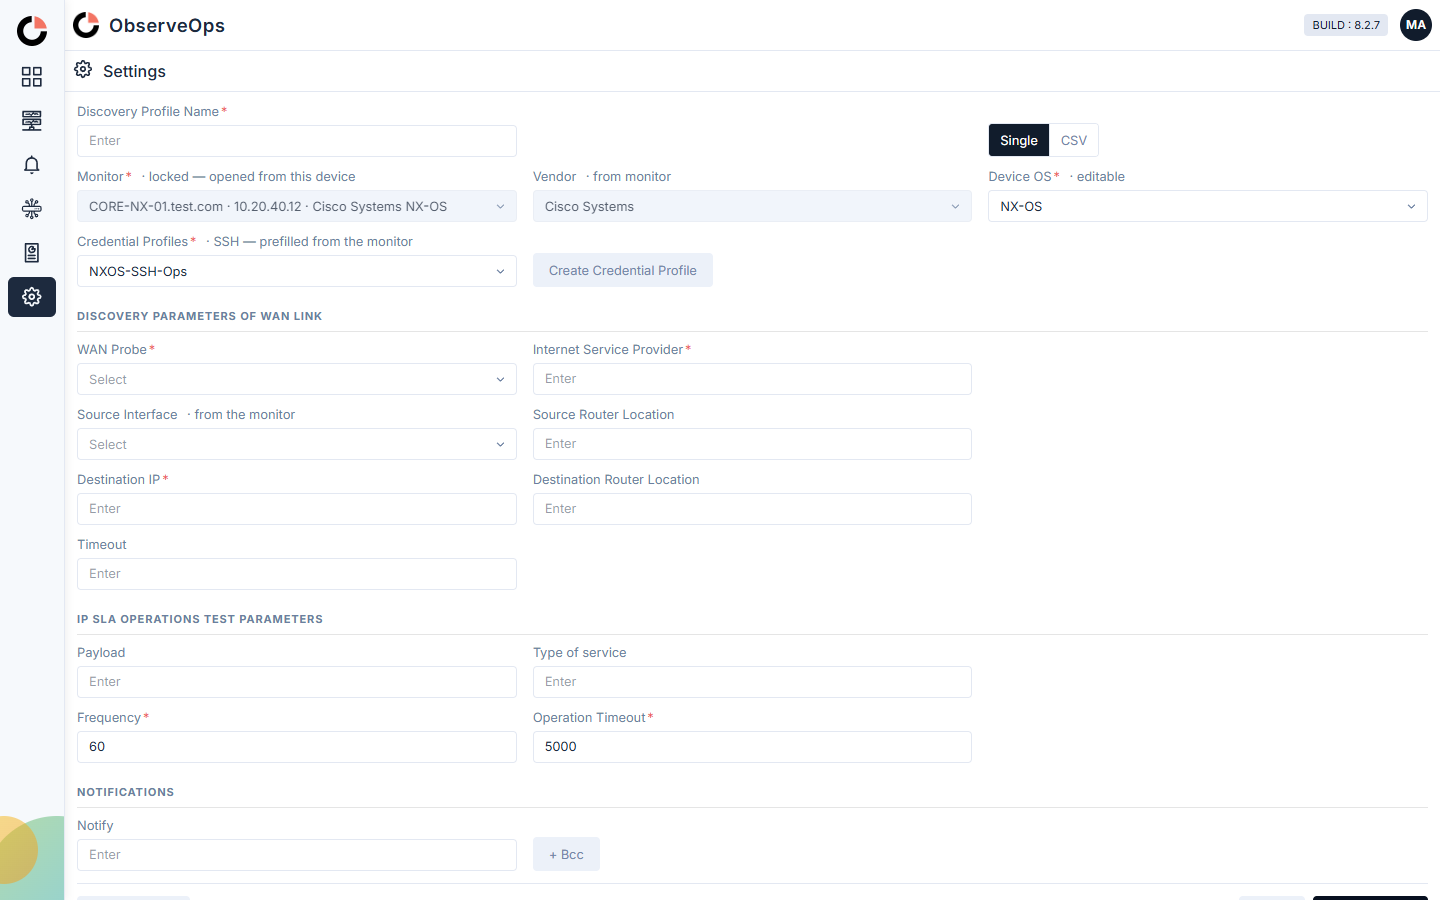
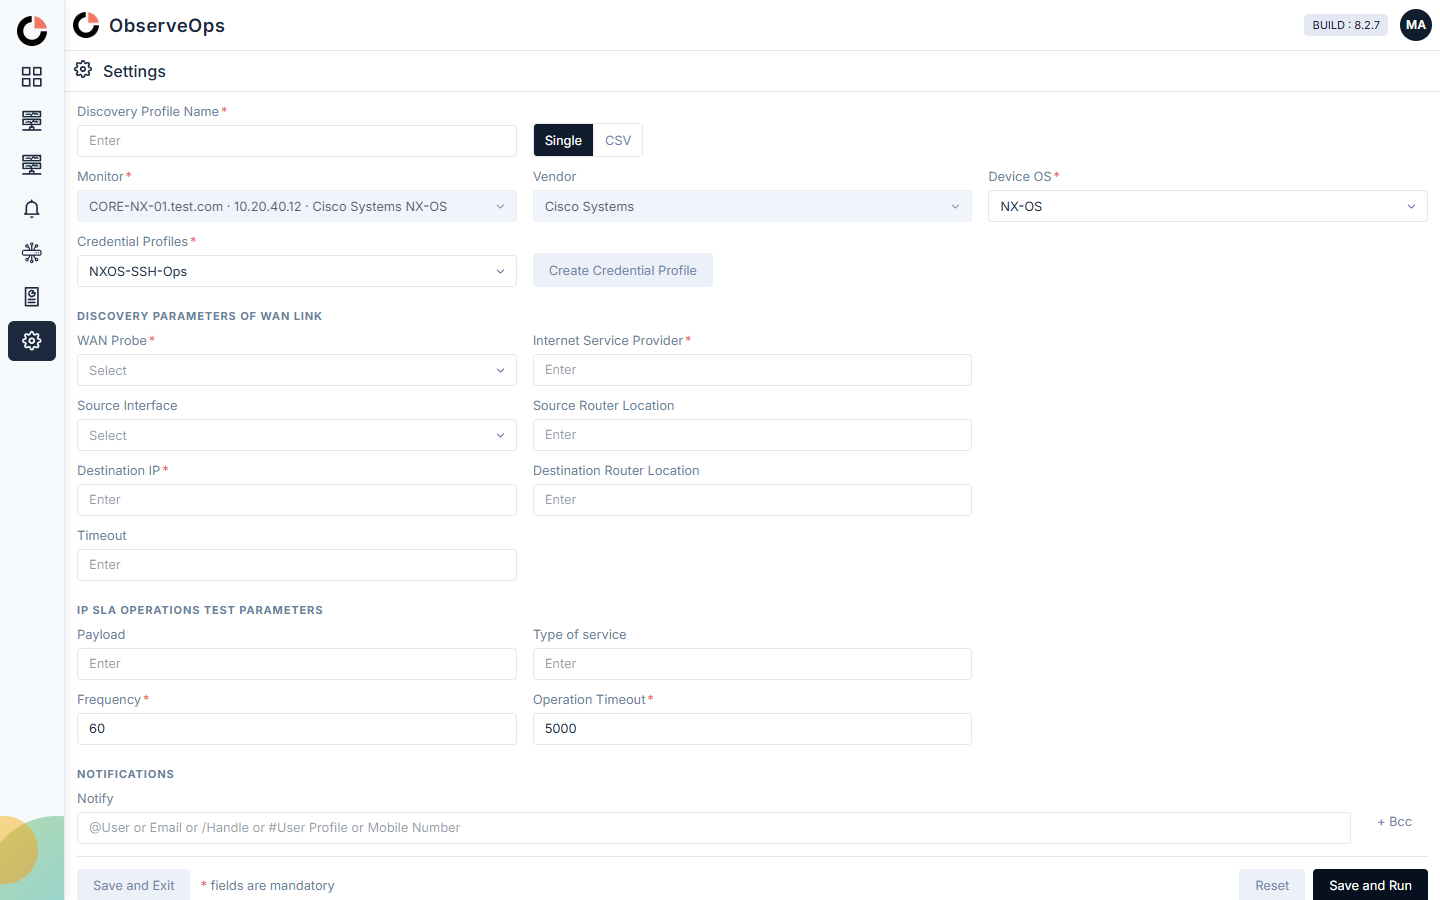
fix(wan-link-discovery): align the settings form with the shipped product
Six changes taken from the product screens, each verified in a real browser
rather than only in jsdom:

- the probe dropdowns drop their "(no monitor template yet)" caveat
- the WAN Link screen no longer offers Add WAN Link. The discovery route is
  untouched and still covered: section H of the probe navigates it directly
  now that nothing clicks it
- the field labels lose their "from monitor" style hints
- the sub-category headings lose the rule beneath them
- the Single/CSV toggle moves to column 2, beside Discovery Profile Name,
  where the shipped Create Discovery Profile puts its own type toggle
- Notifications matches the product: Notify at full width carrying the
  product's own placeholder, "+ Bcc" parked at the right end, revealing a
  labelled Bcc row with a red remove control

"+ Bcc" is obs-button variant="transparent", not obs-link. link.json is a
navigation control whose decision flow opens with "Performs an action? ->
Button, not a link", and text-link's dontUse is literally "for actions".
Built on obs-link first, a single click cleared the hash, remounted the
Overview and destroyed the half-filled form -- while 38 jsdom tests passed,
because jsdom does not navigate. Probe section E0 now pins that it cannot
come back.

679 tests across 42 files, probe 85/85, colour guard clean.

diff --git a/src/wan-link-discovery/createForm.js b/src/wan-link-discovery/createForm.js
@@ -36,13 +36,13 @@ const selectField = (id, label, { required = false, hint = '' } = {}) => `
   </div>
 `
 
-const inputField = (id, label, { required = false, hint = '', value = '' } = {}) => `
+const inputField = (id, label, { required = false, hint = '', value = '', placeholder = 'Enter' } = {}) => `
   <div class="wld-field" id="${id}-field">
     <label class="wld-field__label" for="${id}">
       ${label}${required ? '<span class="wld-field__req">*</span>' : ''}
       ${hint ? `<span class="wld-field__hint">${hint}</span>` : ''}
     </label>
-    <obs-input id="${id}" block placeholder="Enter" value="${value}"></obs-input>
+    <obs-input id="${id}" block placeholder="${placeholder}" value="${value}"></obs-input>
   </div>
 `
 
@@ -52,25 +52,31 @@ export function renderCreateForm({ monitorId = null, locked = false, onCancel, o
   el.innerHTML = `
     <div class="wld-form__row">
       ${inputField('wld-name', 'Discovery Profile Name', { required: true })}
-      <div></div>
       <!-- A segmented control IS obs-radio with as-button — there is no separate DS component for
            it (see components/registry/radio.json: variant "segmented", 255x usage, and its own
            decision tree: "small compact set (2-5)? -> plain segmented (as-button)"). It renders its
-           own selected treatment; no wrapper, host CSS, or invented attribute needed. -->
-      <obs-radio id="wld-mode" as-button></obs-radio>
+           own selected treatment; no host CSS or invented attribute needed.
+           Column 2, not 3: the shipped Create Discovery Profile puts its type toggle immediately
+           right of Discovery Profile Name, not out at the far edge. The wld-field--action wrapper
+           is the same one the Create Credential Profile button uses two rows down — it bottom-aligns
+           an unlabelled control with the labelled input beside it. -->
+      <div class="wld-field wld-field--action">
+        <obs-radio id="wld-mode" as-button></obs-radio>
+      </div>
+      <div></div>
     </div>
 
     <div class="wld-form__row">
-      ${selectField('wld-monitor', 'Monitor', { required: true, hint: '<span id="wld-monitor-hint"></span>' })}
-      ${selectField('wld-vendor', 'Vendor', { hint: '· from monitor' })}
-      ${selectField('wld-os', 'Device OS', { required: true, hint: '· editable' })}
+      ${selectField('wld-monitor', 'Monitor', { required: true })}
+      ${selectField('wld-vendor', 'Vendor')}
+      ${selectField('wld-os', 'Device OS', { required: true })}
     </div>
     <p class="wld-form__warning" id="wld-os-warning" hidden>
       Probe cleared — it is not available on this Device OS.
     </p>
 
     <div class="wld-form__row">
-      ${selectField('wld-cred', 'Credential Profiles', { required: true, hint: '<span id="wld-cred-hint"></span>' })}
+      ${selectField('wld-cred', 'Credential Profiles', { required: true })}
       <div class="wld-field wld-field--action">
         <obs-button variant="neutral-lightest">Create Credential Profile</obs-button>
       </div>
@@ -90,7 +96,7 @@ export function renderCreateForm({ monitorId = null, locked = false, onCancel, o
           <div></div>
         </div>
         <div class="wld-form__row">
-          ${selectField('wld-iface', 'Source Interface', { hint: '· from the monitor' })}
+          ${selectField('wld-iface', 'Source Interface')}
           ${inputField('wld-src-loc', 'Source Router Location')}
           <div></div>
         </div>
@@ -137,14 +143,28 @@ export function renderCreateForm({ monitorId = null, locked = false, onCancel, o
       </div>
 
       <h4 class="wld-form__legend">Notifications</h4>
-      <div class="wld-form__row">
-        ${inputField('wld-notify', 'Notify')}
-        <div class="wld-field wld-field--action">
-          <!-- Inert chrome: the product's Bcc affordance on this row, unwired — same treatment the
-               Monitors category bar gets in src/wan-link/screen.js. -->
-          <obs-button id="wld-bcc" variant="neutral-lightest">+ Bcc</obs-button>
-        </div>
-        <div></div>
+      <!-- The product runs Notify at FULL width with the Bcc affordance parked at the right end of
+           the same line, then reveals a labelled Bcc row beneath it. That is not a 3-column grid
+           row, so this section gets its own flex row.
+           Both controls are obs-button variant="transparent" — "No fill, text-style", 255x usage.
+           NOT obs-link: link.json is explicit that it is a Navigation control whose default renders
+           a RouterLink, its decision flow opens with "Performs an action? -> Button, not a link",
+           and text-link's dontUse is literally "for actions (use Button)". Using obs-link here was
+           tried and it did exactly what the DS says it does — clicking it cleared the hash, the
+           router remounted the Overview, and the half-filled form was destroyed. jsdom cannot see
+           that; a real browser found it in one click.
+           The remove icon is obs-icon timesCircle, which the icon registry omits but the package
+           does ship — see G24. -->
+      <div class="wld-form__notify">
+        ${inputField('wld-notify', 'Notify', {
+          placeholder: '@User or Email or /Handle or #User Profile or Mobile Number',
+        })}
+        <obs-button id="wld-bcc" variant="transparent" class="wld-form__bcc">+ Bcc</obs-button>
+      </div>
+      <div class="wld-form__notify" id="wld-bcc-row" hidden>
+        ${inputField('wld-bcc-input', 'Bcc', { placeholder: 'Email' })}
+        <obs-button id="wld-bcc-remove" variant="transparent" squared class="wld-form__bcc-remove"
+                    aria-label="Remove Bcc"><obs-icon name="timesCircle" size="18"></obs-icon></obs-button>
       </div>
     </div>
 
@@ -171,7 +191,6 @@ export function renderCreateForm({ monitorId = null, locked = false, onCancel, o
   setOptions('wld-monitor', monitorOptions(), monitorId ?? '')
   if (locked && monitorId) {
     $('wld-monitor').setAttribute('disabled', '')
-    $('wld-monitor-hint').textContent = '· locked — opened from this device'
   }
 
   const monitor = () => findMonitor($('wld-monitor').getAttribute('value'))
@@ -259,9 +278,6 @@ export function renderCreateForm({ monitorId = null, locked = false, onCancel, o
     const prefill = prefillCredential(m, platform.method)
     const keptCred = creds.some((c) => c.value === previousCred) ? previousCred : ''
     setOptions('wld-cred', creds, prefill || keptCred)
-    $('wld-cred-hint').textContent = prefill
-      ? `· ${platform.method} — prefilled from the monitor`
-      : `· ${platform.method} — the monitor has no matching credential`
 
     const previousProbe = $('wld-probe').getAttribute('value')
     const probes = probeOptions(osKey)
@@ -311,6 +327,20 @@ export function renderCreateForm({ monitorId = null, locked = false, onCancel, o
   })
 
   $('wld-exit').addEventListener('click', () => onCancel())
+  // Bcc is revealed, not always-on — the product hides it behind the "+ Bcc" link and takes it
+  // away again with the red remove control. The field itself stays inert: this screen has no
+  // notification model behind it, and adding one is not what aligning the design asks for.
+  $('wld-bcc').addEventListener('click', () => {
+    $('wld-bcc-row').hidden = false
+    $('wld-bcc').hidden = true
+  })
+  $('wld-bcc-remove').addEventListener('click', () => {
+    $('wld-bcc-input').value = ''
+    $('wld-bcc-input').setAttribute('value', '')
+    $('wld-bcc-row').hidden = true
+    $('wld-bcc').hidden = false
+  })
+
   $('wld-reset').addEventListener('click', () => {
     const keepMonitor = locked && !!monitorId
     if (!keepMonitor) {
@@ -322,7 +352,6 @@ export function renderCreateForm({ monitorId = null, locked = false, onCancel, o
     // Cred/probe/iface are always monitor-derived — clear them here too, then let syncMonitor()
     // (called below) recompute them fresh, whether or not the monitor itself was kept.
     setOptions('wld-cred', [], '')
-    $('wld-cred-hint').textContent = ''
     setOptions('wld-probe', [], '')
     setOptions('wld-iface', [], '')
     $('wld-os-warning').hidden = true
@@ -330,7 +359,7 @@ export function renderCreateForm({ monitorId = null, locked = false, onCancel, o
     $('wld-name').value = ''
     ;[
       'wld-isp', 'wld-src-loc', 'wld-dst-loc', 'wld-dip', 'wld-timeout', 'wld-port',
-      'wld-payload', 'wld-tos', 'wld-freq', 'wld-optimeout', 'wld-notify',
+      'wld-payload', 'wld-tos', 'wld-freq', 'wld-optimeout', 'wld-notify', 'wld-bcc-input',
     ].forEach((id) => {
       const value = RESET_DEFAULTS[id] ?? ''
       $(id).value = value
@@ -339,6 +368,9 @@ export function renderCreateForm({ monitorId = null, locked = false, onCancel, o
     // The uploaded-file display is not in the list above — it has no RESET_DEFAULTS entry and
     // starts blank, not with a placeholder-shaped default.
     $('wld-csv-name').setAttribute('value', '')
+    // Reset returns the form to its INITIAL state, and Bcc starts collapsed behind the link.
+    $('wld-bcc-row').hidden = true
+    $('wld-bcc').hidden = false
 
     $('wld-error').hidden = true
     syncMonitor()

diff --git a/src/wan-link-discovery/createForm.test.js b/src/wan-link-discovery/createForm.test.js
@@ -47,12 +47,9 @@ describe('create form — the monitor drives everything', () => {
     expect(el.textContent).not.toContain('Monitors WAN link performance by collecting key metrics')
     // The redesign's central claim is that method is derived, never asked — guard the claim
     // itself, not just the one id/sentence a differently-worded control (a "Protocol" dropdown, an
-    // SNMP/SSH toggle) would sail past. Exclude #wld-cred-hint: it legitimately names the protocol
-    // (e.g. "SSH — prefilled from the monitor") to explain a credential prefill — that is an
-    // explanation of a derived fact, not a method-selection control asking the user anything.
-    const hint = el.querySelector('#wld-cred-hint').textContent
-    const bodyWithoutHint = el.textContent.replace(hint, '')
-    expect(bodyWithoutHint).not.toMatch(/method|SNMP|SSH/i)
+    // SNMP/SSH toggle) would sail past. The #wld-cred-hint carve-out this sweep used to need is
+    // gone with the hint itself, so the assertion now covers the whole form with no exception.
+    expect(el.textContent).not.toMatch(/method|SNMP|SSH/i)
   })
 
   it('prefills the credential when the protocol matches', () => {
@@ -121,9 +118,46 @@ describe('create form — reactive rules', () => {
 })
 
 describe('create form — notifications', () => {
-  it('renders a Bcc affordance next to Notify', () => {
+  it('starts with Bcc collapsed behind the link, as the product does', () => {
     const el = form()
     expect(el.querySelector('#wld-bcc')).not.toBeNull()
+    expect(el.querySelector('#wld-bcc-row').hidden).toBe(true)
+    expect(el.querySelector('#wld-bcc').hidden).toBe(false)
+  })
+
+  it('reveals the Bcc field and takes the link away', () => {
+    const el = form()
+    el.querySelector('#wld-bcc').click()
+    expect(el.querySelector('#wld-bcc-row').hidden).toBe(false)
+    expect(el.querySelector('#wld-bcc').hidden).toBe(true)
+    expect(el.querySelector('#wld-bcc-input')).not.toBeNull()
+  })
+
+  it('the remove control collapses it again and clears what was typed', () => {
+    const el = form()
+    el.querySelector('#wld-bcc').click()
+    el.querySelector('#wld-bcc-input').value = 'ops@example.com'
+    el.querySelector('#wld-bcc-remove').click()
+    expect(el.querySelector('#wld-bcc-row').hidden).toBe(true)
+    expect(el.querySelector('#wld-bcc').hidden).toBe(false)
+    expect(el.querySelector('#wld-bcc-input').value).toBe('')
+  })
+
+  it('Reset collapses Bcc back to its initial state', () => {
+    const el = form()
+    el.querySelector('#wld-bcc').click()
+    el.querySelector('#wld-bcc-input').value = 'ops@example.com'
+    el.querySelector('#wld-reset').click()
+    expect(el.querySelector('#wld-bcc-row').hidden).toBe(true)
+    expect(el.querySelector('#wld-bcc').hidden).toBe(false)
+    expect(el.querySelector('#wld-bcc-input').value).toBe('')
+  })
+
+  it('carries the Notify prompt the product uses, not the generic one', () => {
+    const el = form()
+    expect(el.querySelector('#wld-notify').getAttribute('placeholder'))
+      .toContain('@User or Email')
+    expect(el.querySelector('#wld-bcc-input').getAttribute('placeholder')).toBe('Email')
   })
 })
 

diff --git a/src/wan-link/screen.js b/src/wan-link/screen.js
@@ -4,6 +4,12 @@ import { renderDetailDrawer } from './detailDrawer.js'
 // configDrawer.js is deliberately NOT imported: the Add WAN Link Probe button was dropped, so the
 // screen has no entry point to it. The module and its tests are kept, unreached by the page — the
 // same treatment categoryRow.js gets in the report-categories screen.
+// The Add WAN Link button that deep-linked into Create Discovery Profile was removed too, on
+// request, so this screen now has no entry point into the discovery flow either. The ROUTE is
+// unaffected: #/settings/wan-link-discovery?monitor=<id> still resolves, still locks the Monitor,
+// and is still covered — by wan-link-discovery/screen.test.js and by section H of
+// scripts/probe-wan-link-discovery.mjs, which navigates to it directly now that nothing clicks it.
+// To restore the entry point, re-add an obs-button carrying that href and a click handler.
 import './wanLink.css'
 
 export const meta = { pageHeader: { heading: 'Monitors', icon: 'monitor' } }
@@ -35,11 +41,6 @@ const TEMPLATE = `
         <obs-button variant="neutral-lightest" squared aria-label="Export as spreadsheet">
           <obs-icon name="exportXlsx" size="14"></obs-icon>
         </obs-button>
-        <!-- The in-device Add WAN Link drawer is retired. This deep-links to the one form,
-             Create Discovery Profile -> WAN Link, with the Monitor pre-selected and locked.
-             See docs/superpowers/specs/2026-09-02-wan-link-discovery-design.md. -->
-        <obs-button id="wan-link-add" variant="primary"
-                    data-href="#/settings/wan-link-discovery?monitor=m-nxos">Add WAN Link</obs-button>
       </obs-toolbar>
       <obs-filters id="wan-link-filters" kind="bar"></obs-filters>
       <!-- page-size="0" turns obs-table's own pager off. The product puts pagination, page size,
@@ -150,9 +151,6 @@ export function mount(root) {
     if (!link || !overlay) return
     overlay.replaceChildren(renderDetailDrawer({ link, onClose: closeOverlay }))
   })
-
-  const add = root.querySelector('#wan-link-add')
-  add.addEventListener('click', () => { window.location.hash = add.getAttribute('data-href') })
 
   return function unmount() {
     closeOverlay()

diff --git a/src/wan-link-discovery/wanLinkDiscovery.css b/src/wan-link-discovery/wanLinkDiscovery.css
@@ -122,9 +122,10 @@
 }
 
 .wld-form__legend {
+  /* No rule under the heading: the sub-category separators were removed on request. The 8px that
+     used to sit between the text and the line is dropped with it, so the heading keeps its own
+     margin and nothing else. */
   margin: 22px 0 10px;
-  padding-bottom: 8px;
-  border-bottom: 1px solid var(--chart-border-color);
   font-size: 11px;
   letter-spacing: 0.08em;
   text-transform: uppercase;
@@ -132,6 +133,38 @@
      emitted by @mtdt/observeops-ds-css (checked dist/observeops-ds.css — absent in both themes), so
      it resolves to nothing there. Using --neutral-light instead: confirmed present in both themes. */
   color: var(--neutral-light);
+}
+
+/* Notifications. The product gives Notify the full width and parks the Bcc affordance at the right
+   end of the same line, so this is a flex row rather than one of the 3-column grid rows above. */
+.wld-form__notify {
+  display: flex;
+  align-items: end;
+  gap: 10px;
+  margin-block-end: 12px;
+}
+
+/* display:flex above outranks the UA's `[hidden] { display: none }` — the same cascade trap
+   documented at the top of this file. Without this the collapsed Bcc row stays painted. */
+.wld-form__notify[hidden] {
+  display: none;
+}
+
+.wld-form__notify .wld-field {
+  flex: 1;
+  min-width: 0;
+}
+
+/* Both controls sit on the input's line, not the label's, so they are nudged off the row's end. */
+.wld-form__bcc {
+  padding-block-end: 6px;
+}
+
+/* The DS has no red text-style button variant (error is a FILLED red), and the product draws this
+   control as a bare red glyph — so the colour is set on the host, which is what --secondary-red is
+   already used for four times in this file. No shadow-DOM piercing: obs-icon inherits currentColor. */
+.wld-form__bcc-remove {
+  color: var(--secondary-red);
 }
 
 .wld-form__gate {

diff --git a/src/wan-link-discovery/platforms.js b/src/wan-link-discovery/platforms.js
@@ -34,7 +34,9 @@ const PORT_PROBES = ['UDP Echo', 'UDP Jitter']
 export const needsPort = (probe) => PORT_PROBES.includes(probe)
 
 // Only the three NX-OS probes have a monitor template today. The others create a valid operation
-// that nothing can yet render, so the dropdown says so rather than leaving it silent.
+// that nothing can yet render. The probe dropdown used to carry that caveat inline; the label was
+// removed on request, so this predicate is now the only record of which probes are templated and
+// has no consumer in the app.
 const TEMPLATED = ['ICMP Echo', 'UDP Echo', 'UDP Jitter']
 export const hasTemplate = (probe) => TEMPLATED.includes(probe)
 
@@ -45,10 +47,7 @@ export const osOptions = (vendor) =>
   platformsFor(vendor).map((p) => ({ value: p.key, text: p.label }))
 
 export const probeOptions = (osKey) =>
-  (PLATFORMS[osKey]?.probes ?? []).map((probe) => ({
-    value: probe,
-    text: hasTemplate(probe) ? probe : `${probe}   (no monitor template yet)`,
-  }))
+  (PLATFORMS[osKey]?.probes ?? []).map((probe) => ({ value: probe, text: probe }))
 
 /** The Operations block is named by the vendor — the product already varies this string. */
 export const slaTitle = (vendor) =>

diff --git a/src/wan-link-discovery/platforms.test.js b/src/wan-link-discovery/platforms.test.js
@@ -55,11 +55,15 @@ describe('platform matrix', () => {
     expect(hasTemplate('ICMP Ping')).toBe(false)
   })
 
-  it('labels the untemplated probes in the dropdown', () => {
+  it('labels every probe with its own name, unqualified', () => {
     const xe = probeOptions('ios-xe')
     expect(xe[0]).toEqual({ value: 'ICMP Echo', text: 'ICMP Echo' })
-    expect(xe[2].value).toBe('Path Echo')
-    expect(xe[2].text).toContain('no monitor template yet')
+    expect(xe[2]).toEqual({ value: 'Path Echo', text: 'Path Echo' })
+    // Every option on every platform, keys taken from PLATFORMS itself so the list cannot go
+    // stale — no caveat can creep back onto a single probe unnoticed.
+    const all = Object.keys(PLATFORMS).flatMap((os) => probeOptions(os))
+    expect(all.length).toBeGreaterThan(xe.length) // the sweep really covered more than one platform
+    for (const o of all) expect(o.text).toBe(o.value)
   })
 
   it('names the Operations block after the vendor', () => {

diff --git a/src/wan-link/screen.test.js b/src/wan-link/screen.test.js
@@ -85,13 +85,13 @@ describe('wan-link list', () => {
 })
 
 describe('wan-link deep link into discovery', () => {
-  it('offers Add WAN Link, which points at the discovery form for this monitor', () => {
+  // The Add WAN Link button was removed from the template on request. Pinned as an absence so it
+  // cannot drift back unnoticed; the deep-link ROUTE it used to open is covered in
+  // wan-link-discovery/screen.test.js, which is unaffected by this removal.
+  it('no longer offers an Add WAN Link entry point', () => {
     const root = document.createElement('div')
     mount(root)
-    const button = root.querySelector('#wan-link-add')
-    expect(button).toBeTruthy()
-    expect(button.textContent).toContain('Add WAN Link')
-    expect(button.getAttribute('data-href'))
-      .toBe('#/settings/wan-link-discovery?monitor=m-nxos')
+    expect(root.querySelector('#wan-link-add')).toBeNull()
+    expect(root.textContent).not.toContain('Add WAN Link')
   })
 })
